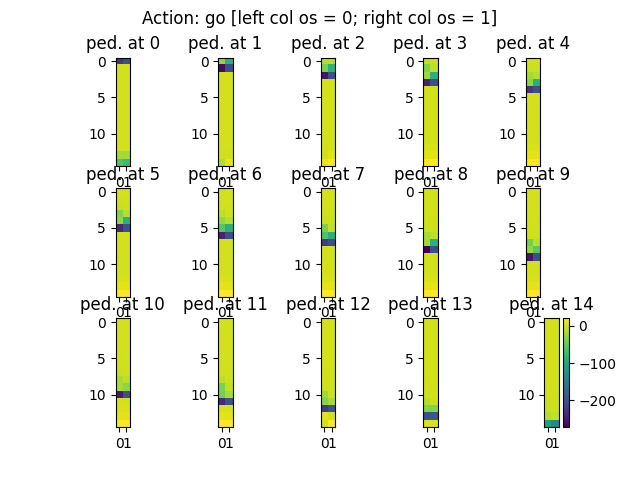
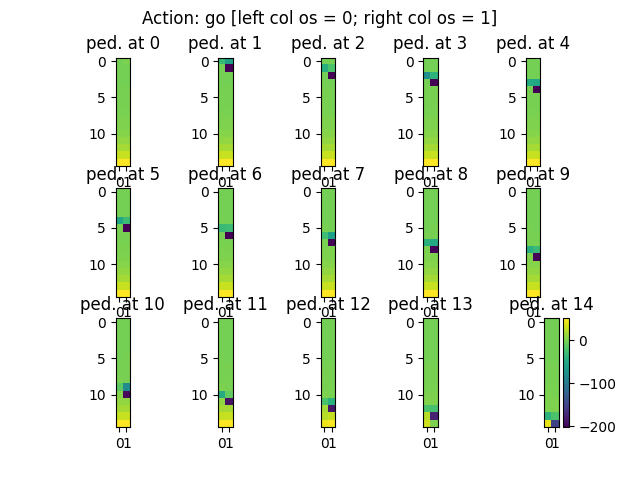
updates from 3-15 discussion

diff --git a/MDP.py b/MDP.py
@@ -3,50 +3,56 @@ class MDP:
     class State:
         # Inputs: substate init., road length, ped. randomness
         def __init__(self, s0 : tuple): 
+            assert s0[1] > 1 # valid random interval
             self._bs = s0[0] # bus row loc
-            self._ps = s0[1] # ped. row loc
+            self._ps = np.random.randint(1, s0[1]) # random row loc; s0[1] road length
             self._os = s0[2] # ped. in road
             self._reset = s0 # store init. for reset
 
         def reset(self):
             self._bs = self._reset[0]
-            self._ps = self._reset[1]
+            self._ps = np.random.randint(1, self._reset[1])
             self._os = self._reset[2]
 
         def get_tup(self): # return MDP state as a tuple
             return (self._bs, self._ps, self._os)
+
+        def get_bs(self):
+            return self._bs
+    
+        def get_rl(self):
+            return self._reset[1] # road length
 
         def set_tup(self, s : tuple):
             self._bs = s[0]
             self._ps = s[1]
             self._os = s[2]
         
-        def get_idx(self, rlen): # needs road length
+        def get_idx(self): # needs road length
+            rlen = self._reset[1]
             return np.array([self._bs, self._ps, self._os]).dot(np.array([1, rlen, rlen**2]))
 
-    class Transition:
-        def __init__(self, env : tuple):
-            self._l = env[0] # road length
-            self._pr = env[1] # pedestrian randomness
+        def tup_to_idx(self, bs : int, ps : int, os : int):
+            return np.array([bs, ps, os]).dot(np.array([1, self.get_rl(), self.get_rl()**2]))
 
-        def get_length(self):
-            return self._l # return road length
+
+    class Transition:
+        def __init__(self, pr : float):
+            self._pr = pr # pedestrian randomness
 
         def update(self, s, a):
             assert a in [0, 1] # valid action
             bs, ps, os = s.get_tup() # current state
+            rlen = s.get_rl() # road length
 
             if np.random.rand() < self._pr: # pedestrian update
                 os = 0 if bs == ps else 1
             else:
-                ps = ps if os else np.clip(ps + np.random.choice([-1, 1]), 0, self._l-1)
+                ps = ps if os else np.clip(ps + np.random.choice([-1, 1]), 0, rlen-1)
                 os = 0
             
-            if bs < self._l-1:
-                if a == 1: # bus update
-                    bs = np.clip(bs+1, 0, self._l-1)
-            else: # reach terminal state, teleport to start independent of action
-                bs = 0
+            if a == 1: # bus update
+                bs = np.clip(bs+1, 0, rlen-1)
             
             return bs, ps, os
         
@@ -56,22 +62,22 @@ class MDP:
             self._cc = cost[1] # collision cost
             self._tr = cost[2] # terminal reward
 
-        def reward(self, s, a : int, rlen : int):
+        def reward(self, s, a : int):
             bs, ps, os = s.get_tup() # return state tuple
-            
-            reward = self._bc if a == 0 else 0
-            reward +=  self._tr if bs == (rlen - 1) else 0  # check terminal state
-            # reward += self._bc if bs < rlen else self._tr # check terminal state
+            rlen = s.get_rl()-1
 
-            reward += self._cc if (bs == ps) and (os == 1) else 0 # check collision
-            # reward += self._cc if bs == ps else 0 # check collision
+            # reward = self._bc if a == 0 else 0
+            # reward +=  self._tr if bs == (rlen - 1) else 0  # check terminal state
+            reward = self._bc if bs < rlen else self._tr # check terminal state
+
+            reward += self._cc if bs == ps and os == 1 else 0 # check collision
             return reward
             
-    def __init__(self, s0 : tuple, A : int, cost : tuple, env : tuple, g : float):
+    def __init__(self, s0 : tuple, A : int, cost : tuple, pr : float, g : float):
         self.S = self.State(s0) # state object : state as tuple
         self.A = A # max action : assumes min action = 0
         self.R = self.Reward(cost) # reward object : reward function 
-        self.T = self.Transition(env) # transition object : transition function
+        self.T = self.Transition(pr) # transition object : transition function
         self.g = g # discount
     
     

diff --git a/driver.py b/driver.py
@@ -7,17 +7,19 @@ from tqdm import tqdm
 def exploration(model : MDP, lr : float, meta : tuple, epoch : int):
     ql = QLearning(model, lr)
     eg = eGreedy(model, meta)
-    rlen = model.T.get_length()
 
     for _ in tqdm(np.arange(epoch)):
-        while eg.decay() > 1e-2:
-            a = eg.next_action(model.S.get_idx(rlen), ql.Q) # sample action from exp. policy
+        while True:
+            a = eg.next_action(model.S.get_idx(), ql.Q) # sample action from exp. policy
             bsp, psp, osp = model.T.update(model.S, a) # next state
-            r = model.R.reward(model.S, a, rlen-1) # get next reward
-            ql.update(model.S.get_idx(rlen), a, r, MDP.State((bsp, psp, osp)).get_idx(rlen)) # update ql
-            model.S.set_tup((bsp, psp, osp)) # update model state
-        eg.reset()
+            r = model.R.reward(model.S, a) # get next reward
+            ql.update(model.S.get_idx(), a, r, model.S.tup_to_idx(bsp, psp, osp)) # update ql
+            if model.S.get_bs() < model.S.get_rl()-1:
+                model.S.set_tup((bsp, psp, osp)) # update model state
+            else:
+                break
         model.S.reset()
+        eg.decay()
     return ql.Q
 
 # Zach's visualization
@@ -41,14 +43,15 @@ def visualize_1(model : MDP, Q, rl : int):
     print(cur_state._bs, cur_state._ps, cur_state._os)
 
 # Matt's visualization
-def viz(Q, l):
+def viz(model, Q):
+    l = model.S.get_rl()
     Q0 = np.zeros((l, l, 2))
     Q1 = np.zeros((l, l, 2))
 
     for ps in np.arange(l):
         for bs in np.arange(l):
-            osf = MDP.State((bs, ps, 0)).get_idx(l) # pedestrian not in street
-            ost = MDP.State((bs, ps, 1)).get_idx(l) # pedestrian in street
+            osf = model.S.tup_to_idx(bs, ps, 0) # pedestrian not in street
+            ost = model.S.tup_to_idx(bs, ps, 1) # pedestrian in street
 
             Q0[ps, bs, 0] = Q[osf, 0] # ped. on sidewalk
             Q0[ps, bs, 1] = Q[ost, 0] # ped. in road
@@ -77,21 +80,31 @@ def viz(Q, l):
 
 
 def main():
-    s0 = (0, 5, 0) # bus at start, ped. at row 5 on sidewalk
+    s0 = (0, 15, 0) # bus at start, road length, ped. on sidewalk
     A = 2 # action space = [0, 1]; len(A) = 2
     cost = (-1, -200, 20) # base line and collision cost and terminal reward
-    env = (15, 0.33) # road length, pedestrian randomness (chance enters road)
-    g = 0.4
-    model = MDP(s0, A, cost, env, g)
+    pr = 0.33 # pedestrian randomness (chance enters road)
+    g = 0.6
+    model = MDP(s0, A, cost, pr, g)
 
     lr = 0.2 # learning rate
-    meta = (0.41, 0.97) # epsilon, decay rate
-    epoch = 1e4
+    meta = np.array([0.4, 0.9999], dtype = np.float64) # epsilon, decay rate
+    epoch = 1e5
     Q = exploration(model, lr, meta, epoch)
+    file = input("Save Q to file [.npy]: ")
+    np.save(file, Q)
 
-    visualize_1(model, Q, 15)
-    # viz(Q, 15)
+    # visualize_1(model, Q, 15)
+    viz(model, Q)
 
 
 if __name__ == "__main__":
     main()
+
+# 3/15/23 notes
+# 1) randomly initialize pedestrian position
+# 2) logic pedestrian not enter road when the bus is there => done
+# 3) revise collision check in reward => done
+# 4) decay epsilon with each journey, e = 0.7 dr = 0.999, stop at 1%
+#       end journey at terminal state
+# increase gamma or consider penalizing stay 

diff --git a/eGreedy.py b/eGreedy.py
@@ -6,9 +6,6 @@ class eGreedy:
         self._eps = meta[0]
         self._dr = meta[1] # eps decay rate
         self._reset = meta[0] # store eps for reset
-    
-    def reset(self):
-        self._eps = self._reset
 
     def next_action(self, s : int, Q):
         if (np.max(Q[s, :]) == 0 and np.min(Q[s, :]) == 0) or np.random.random() < self._eps: # use random action at explored state
@@ -17,5 +14,4 @@ class eGreedy:
             return np.argmax(Q[s, :]) # exploit
     
     def decay(self):
-        self._eps *= self._dr
-        return self._eps
+        self._eps = self._eps*self._dr if self._eps > 1e-2 else self._eps # decay until eps <= 1e-2

diff --git a/QLearning.py b/QLearning.py
@@ -3,7 +3,7 @@ from MDP import *
 class QLearning:
     def __init__(self, model : MDP, lr : float):
         self._MDP = model
-        r_len = model.T.get_length() # road length
+        r_len = model.S.get_rl() # road length
         self.Q = np.zeros((r_len*r_len*2, model.A)) # state space size, action space size
         self._lr = lr
 
